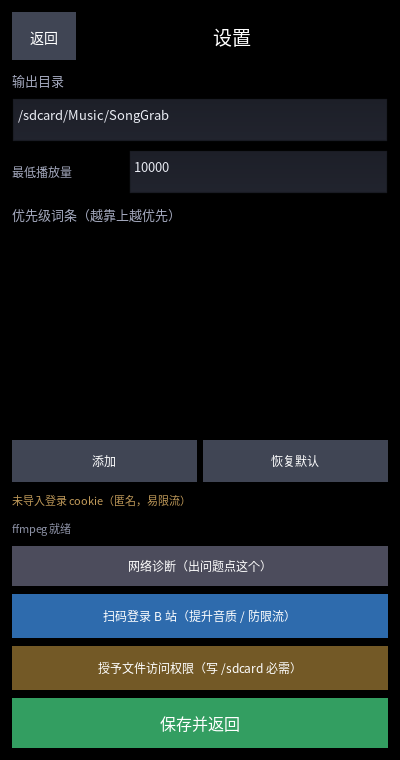
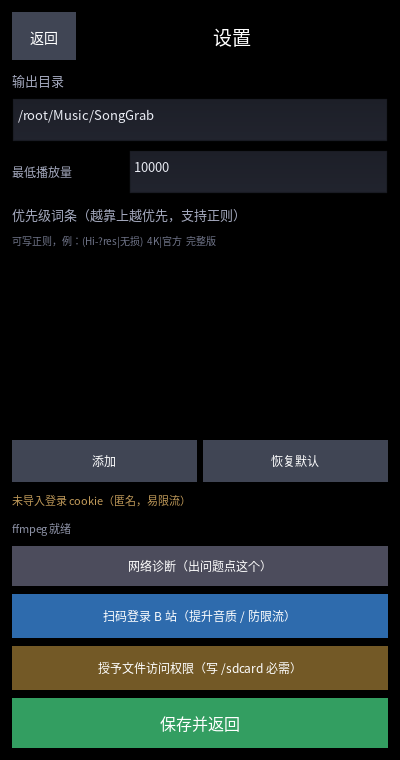
ui: 优先词条区加正则示例提示
标题下加一行小字「可写正则，例：(Hi-?res|无损) 4K|官方 完整版」，
添加弹窗标题也标注「支持正则」。

diff --git a/app_main.py b/app_main.py
@@ -356,7 +356,7 @@ class SongGrabApp(App):
         self.status_text = msg
 
     def ask_add_prio(self):
-        PromptView("添加优先词", lambda w: self.sm.get_screen("settings").add_word(w)).open()
+        PromptView("添加优先词（支持正则）", lambda w: self.sm.get_screen("settings").add_word(w)).open()
 
     def start_download(self, text: str):
         songs = self.ctrl.parse_songs(text)
